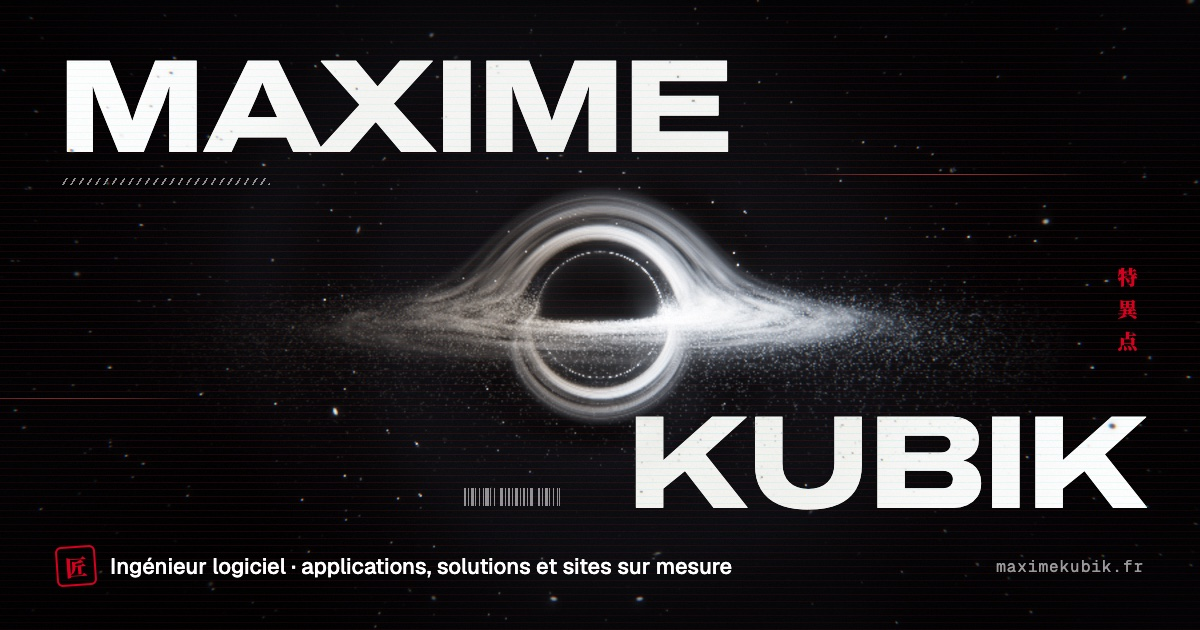
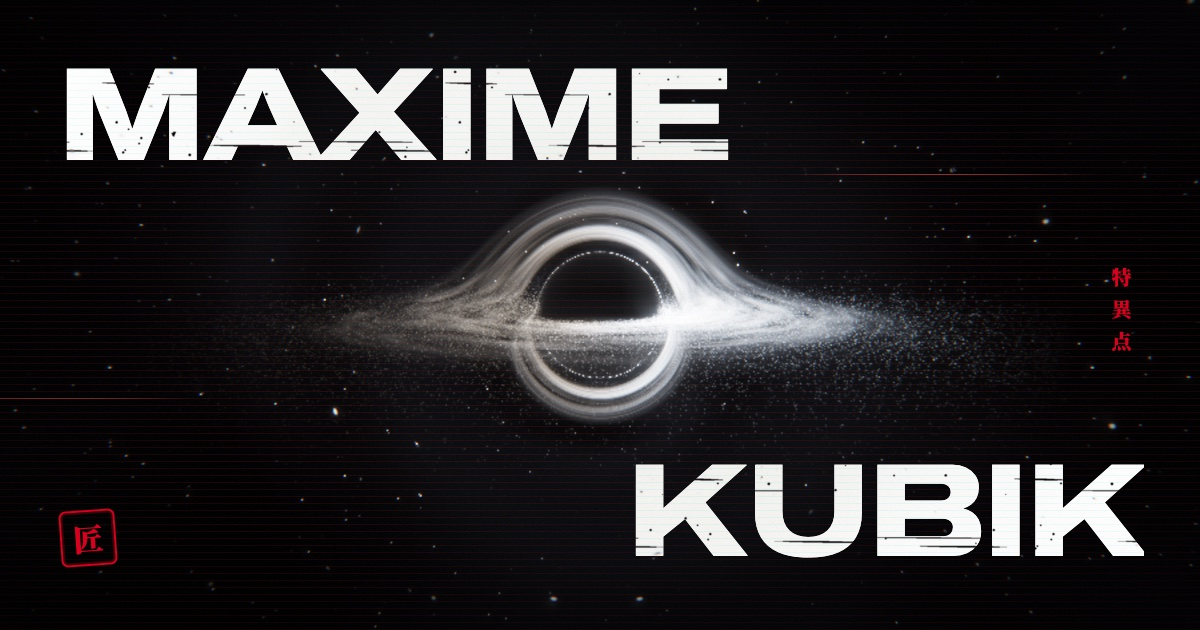
Minimal share image

diff --git a/index.html b/index.html
@@ -16,18 +16,18 @@
     <meta property="og:url" content="__SITE_URL__/" />
     <meta property="og:title" content="Maxime Kubik — Ingénieur logiciel" />
     <meta property="og:description" content="Applications, solutions et sites web sur mesure, de l'idée à la mise en ligne." />
-    <meta property="og:image" content="__SITE_URL__/og.jpg" />
+    <meta property="og:image" content="__SITE_URL__/og.jpg?v=2" />
     <meta property="og:image:type" content="image/jpeg" />
     <meta property="og:image:width" content="1200" />
     <meta property="og:image:height" content="630" />
-    <meta property="og:image:alt" content="MAXIME KUBIK en grandes lettres autour d'un trou noir, avec la mention Ingénieur logiciel." />
+    <meta property="og:image:alt" content="MAXIME KUBIK en grandes lettres autour d'un trou noir." />
 
     <!-- Twitter / X -->
     <meta name="twitter:card" content="summary_large_image" />
     <meta name="twitter:title" content="Maxime Kubik — Ingénieur logiciel" />
     <meta name="twitter:description" content="Applications, solutions et sites web sur mesure, de l'idée à la mise en ligne." />
-    <meta name="twitter:image" content="__SITE_URL__/og.jpg" />
-    <meta name="twitter:image:alt" content="MAXIME KUBIK en grandes lettres autour d'un trou noir, avec la mention Ingénieur logiciel." />
+    <meta name="twitter:image" content="__SITE_URL__/og.jpg?v=2" />
+    <meta name="twitter:image:alt" content="MAXIME KUBIK en grandes lettres autour d'un trou noir." />
     <link rel="icon" href="/favicon.svg" type="image/svg+xml" />
     <!-- Self-hosted JP subset (only the kanji the site uses): preloaded, no third party. -->
     <link rel="preload" href="/fonts/noto-serif-jp-900-subset.woff2" as="font" type="font/woff2" crossorigin />
